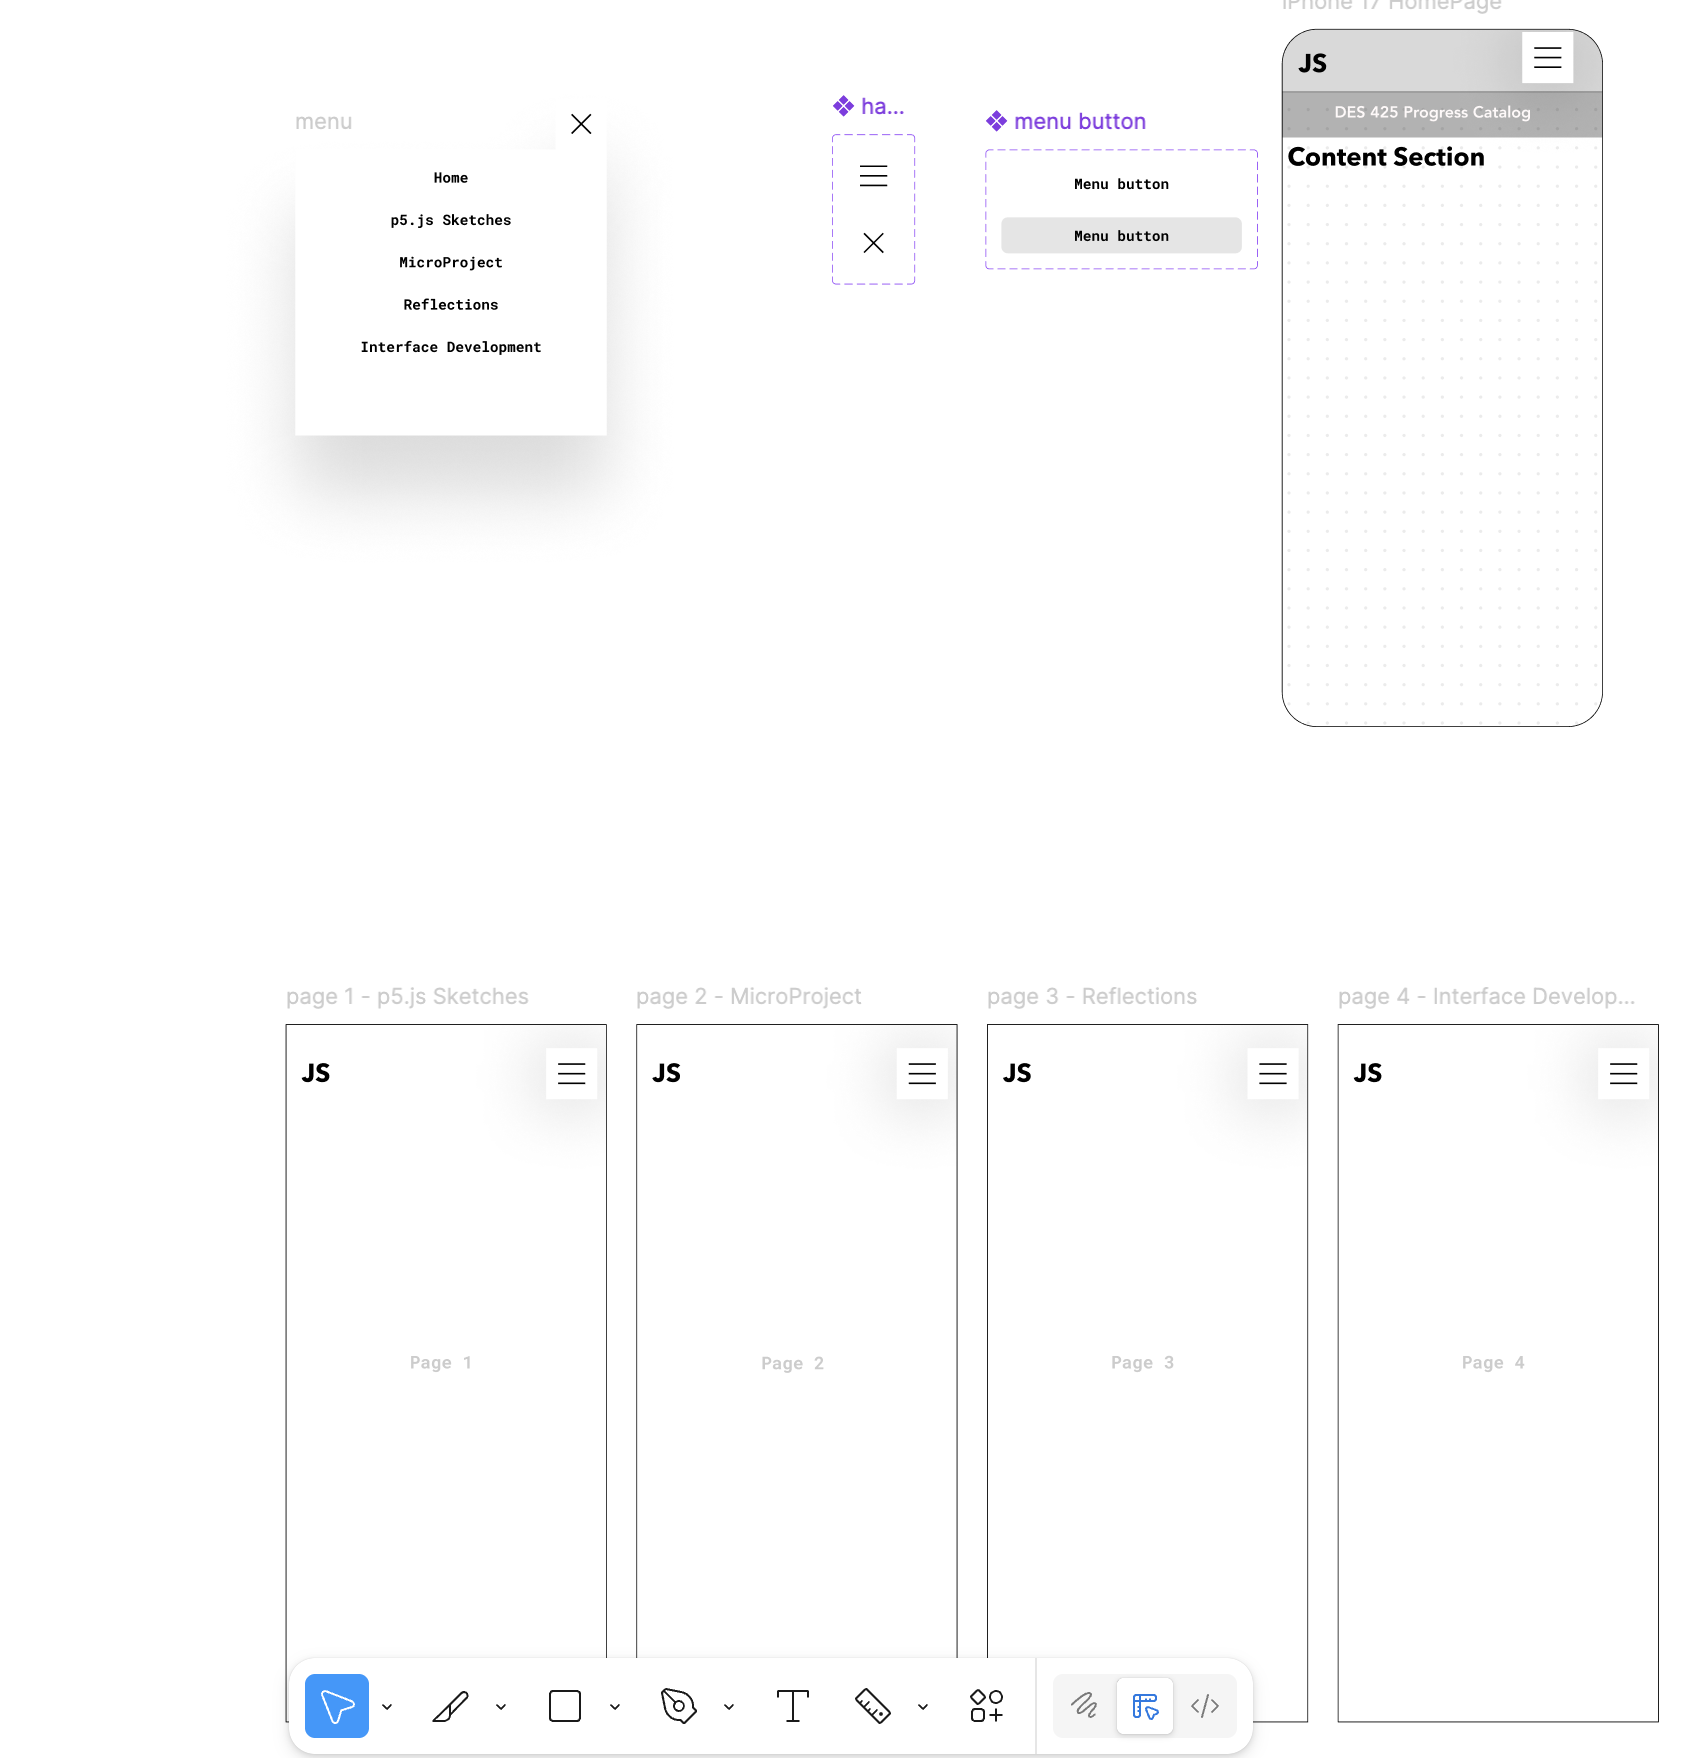
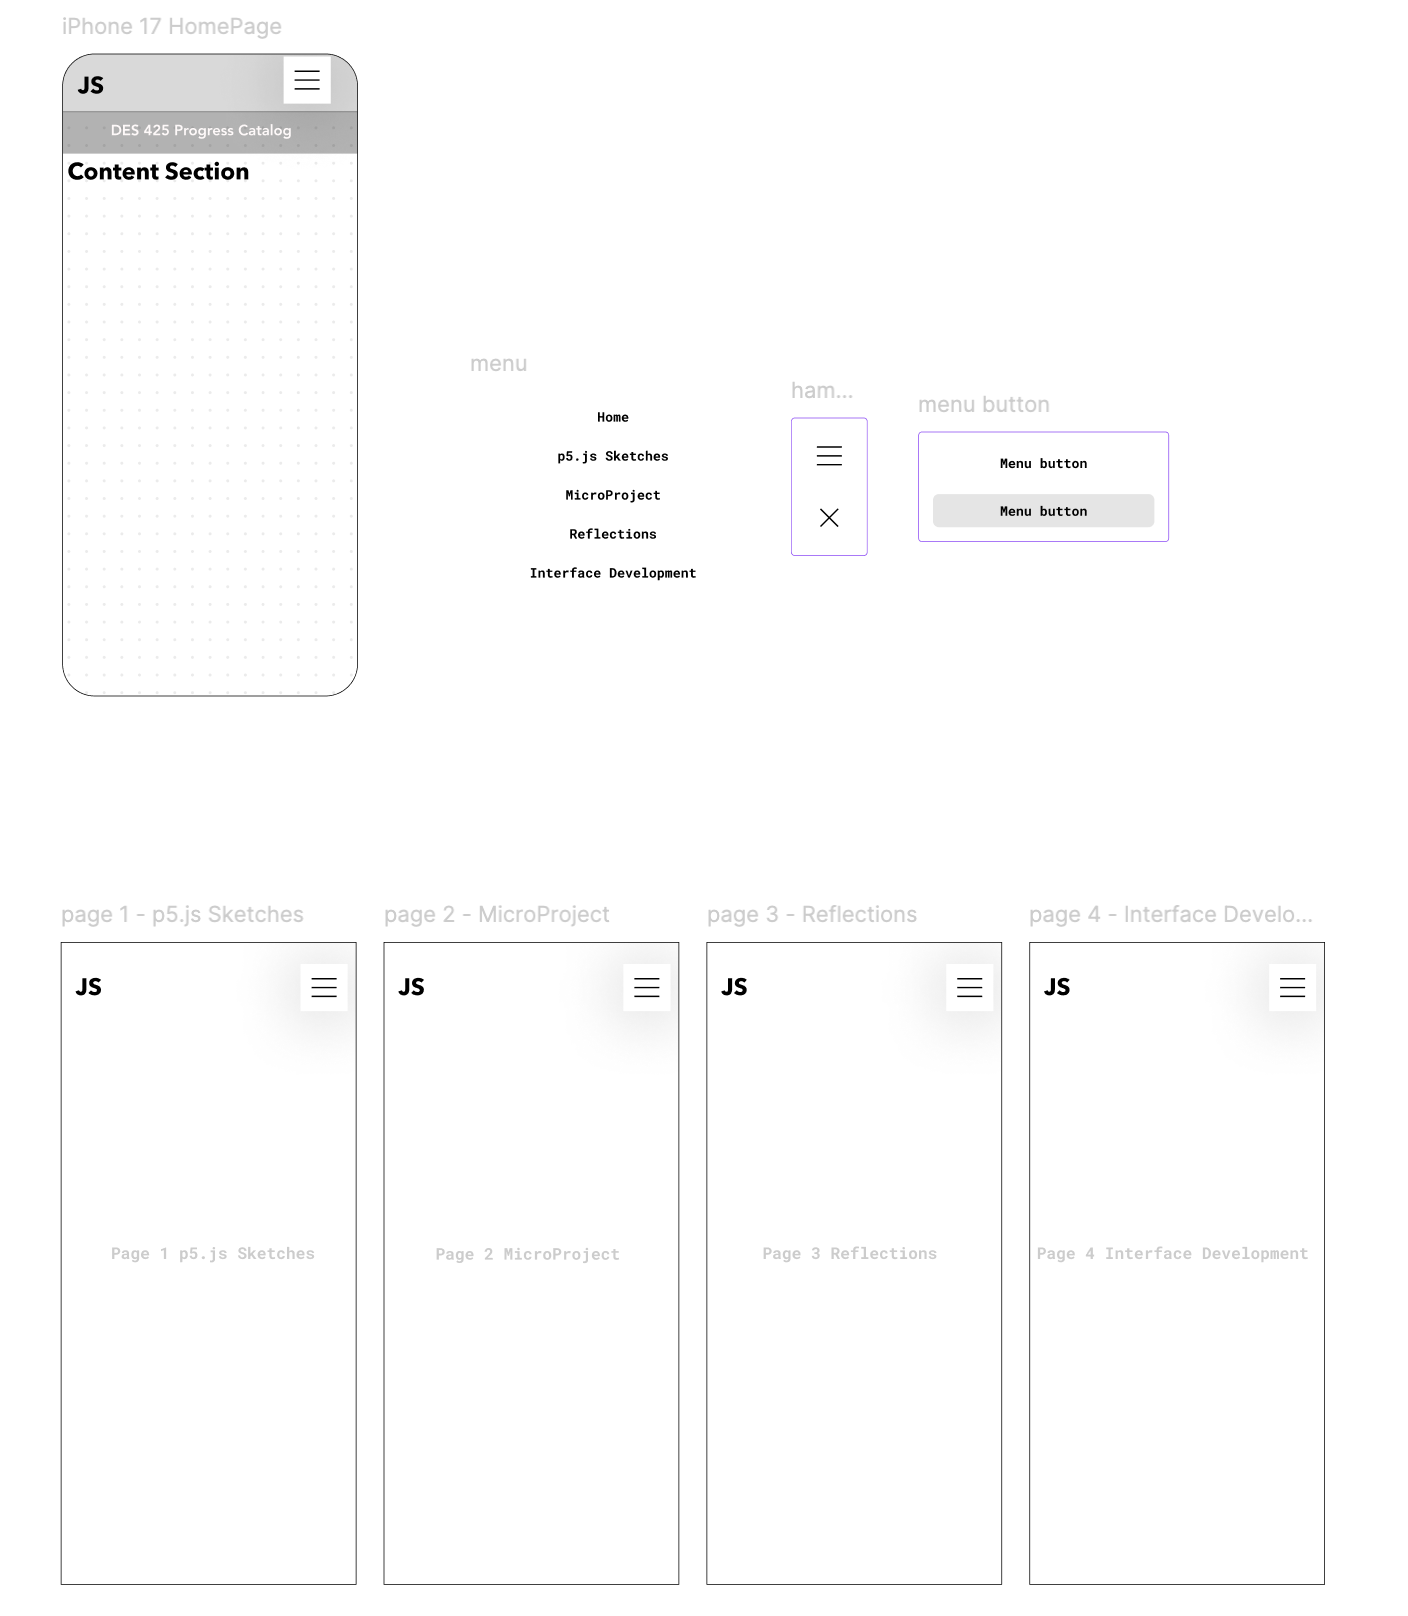
04152026 18:45

diff --git a/prototype-wk1/prototype-wk1.html b/prototype-wk1/prototype-wk1.html
@@ -3,22 +3,32 @@
 <head>
     <meta charset="UTF-8">
     <meta name="viewport" content="width=device-width, initial-scale=1.0">
+    <link rel="stylesheet" href="../css/style.css">
     <title>Interface Prototype Week 1</title>
 </head>
 <body>
+    <header class="page-hdr">
+        <a class="nav-button" href="../index.html">Home</a>
+    </header>
     <!-- Start with Weekly reflection -->
-    <h1>Reflection - Week 1</h1>
-    <p>This week I built two options: a vertical menu and a horizontal menu. I like them both, but I want to explore the vertical menu since I've done mostly horizontal menus so far in my design experience.</p>
-    <a href="https://www.figma.com/proto/aK1CcO1Waa0PnPe6rvwmAE/InterfaceSystem?node-id=0-1&t=nSYybvm4zAWxp1WW-1">Week 1 Figma Link</a>
-    <!-- Insert screenshot from figma here -->
-     <h2>Week 1 Screenshots</h2>
-     <figure>
-         <figcaption>Desktop Screenshot</figcaption>
-         <img src="img/vertical.png" alt="Figma Vertical Screenshot">
-     </figure>
-     <figure>
-         <figcaption>Mobile Screenshot</figcaption>
-         <img src="img/horizontal.png" alt="Figma Horizontal Screenshot">
-     </figure>
+     <main class="page-main">
+            <h1>Reflection - Week 1</h1>
+            <p class="page-p">This week I was able to build out the preliminary layout for my desktop and mobile views and determine the start of the navigation for each. <br><br>
+                For the desktop view, I decided to use a standard horizontal navigation bar at the top of the page. This allows for easy access to the different sections of the site and is a familiar layout for users. <br><br>
+                For the mobile view, I went for a hamburger menu. This approach is known to most users and is straightforward to implement as it is a series of buttons on a menu page linking to individual pages. <br>   <br>     
+                My current navigation is a set of buttons on the homepage which worked for the Sketchbook so far. Now that we're moving into the Interface design, it requires something more sophisticated that can translate from mobile to desktop. <br><br>
+                While I usually choose to try to go beyond the scope of the task , I decided to keep things simple since I'm in unchartered territory with the interface design. I think this will allow me to clearly present the pages and allow the broadest set of users to engage with the system. I still need to pay attention to the consistency of the pages. I've tried so far to establish my typographical hierarchy and apply it, but I need to make sure what I built for the desktop last week, will apply to mobile. This will be something I attend to over the next week.</p>
+            <a href="https://www.figma.com/proto/aK1CcO1Waa0PnPe6rvwmAE/InterfaceSystem?node-id=0-1&t=nSYybvm4zAWxp1WW-1">Week 1 Figma Link</a>
+            <!-- Insert screenshot from figma here -->
+            <h2>Week 1 Screenshots</h2>
+            <figure>
+                <figcaption>Desktop Screenshot</figcaption>
+                <img src="img/DES 327 Interface W1 Desktop.png" alt="Figma Desktop Screenshot" >
+            </figure>
+            <figure>
+                <figcaption>Mobile Screenshot</figcaption>
+                <img src="img/DES 327 Interface W1 Mobile.png" alt="Figma Mobile Screenshot" >
+            </figure>
+     </main>
 </body>
 </html>
